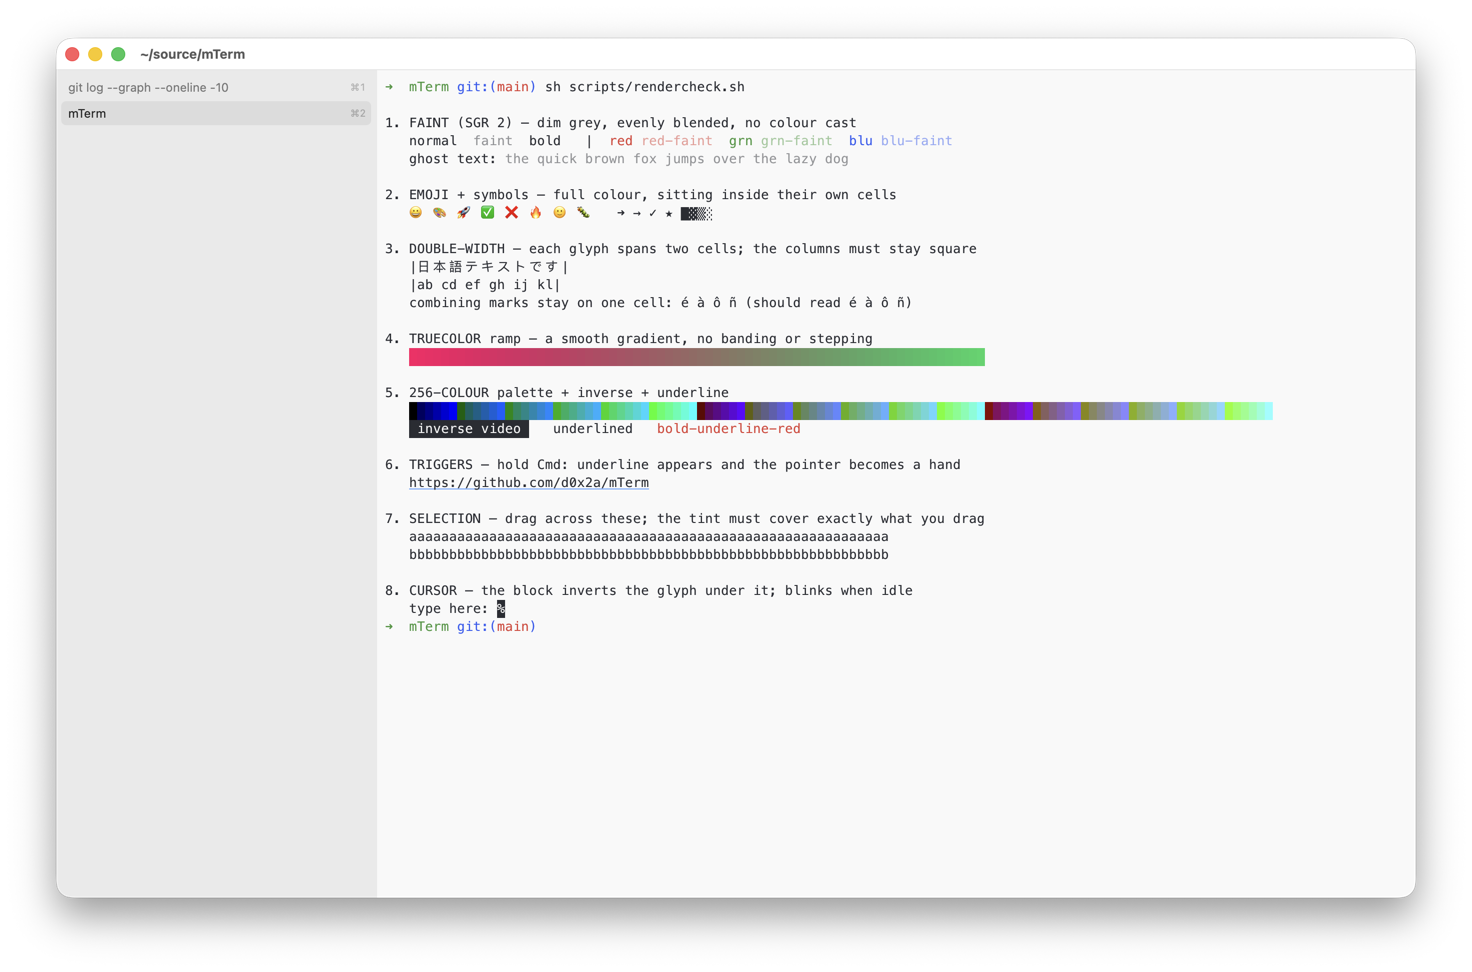
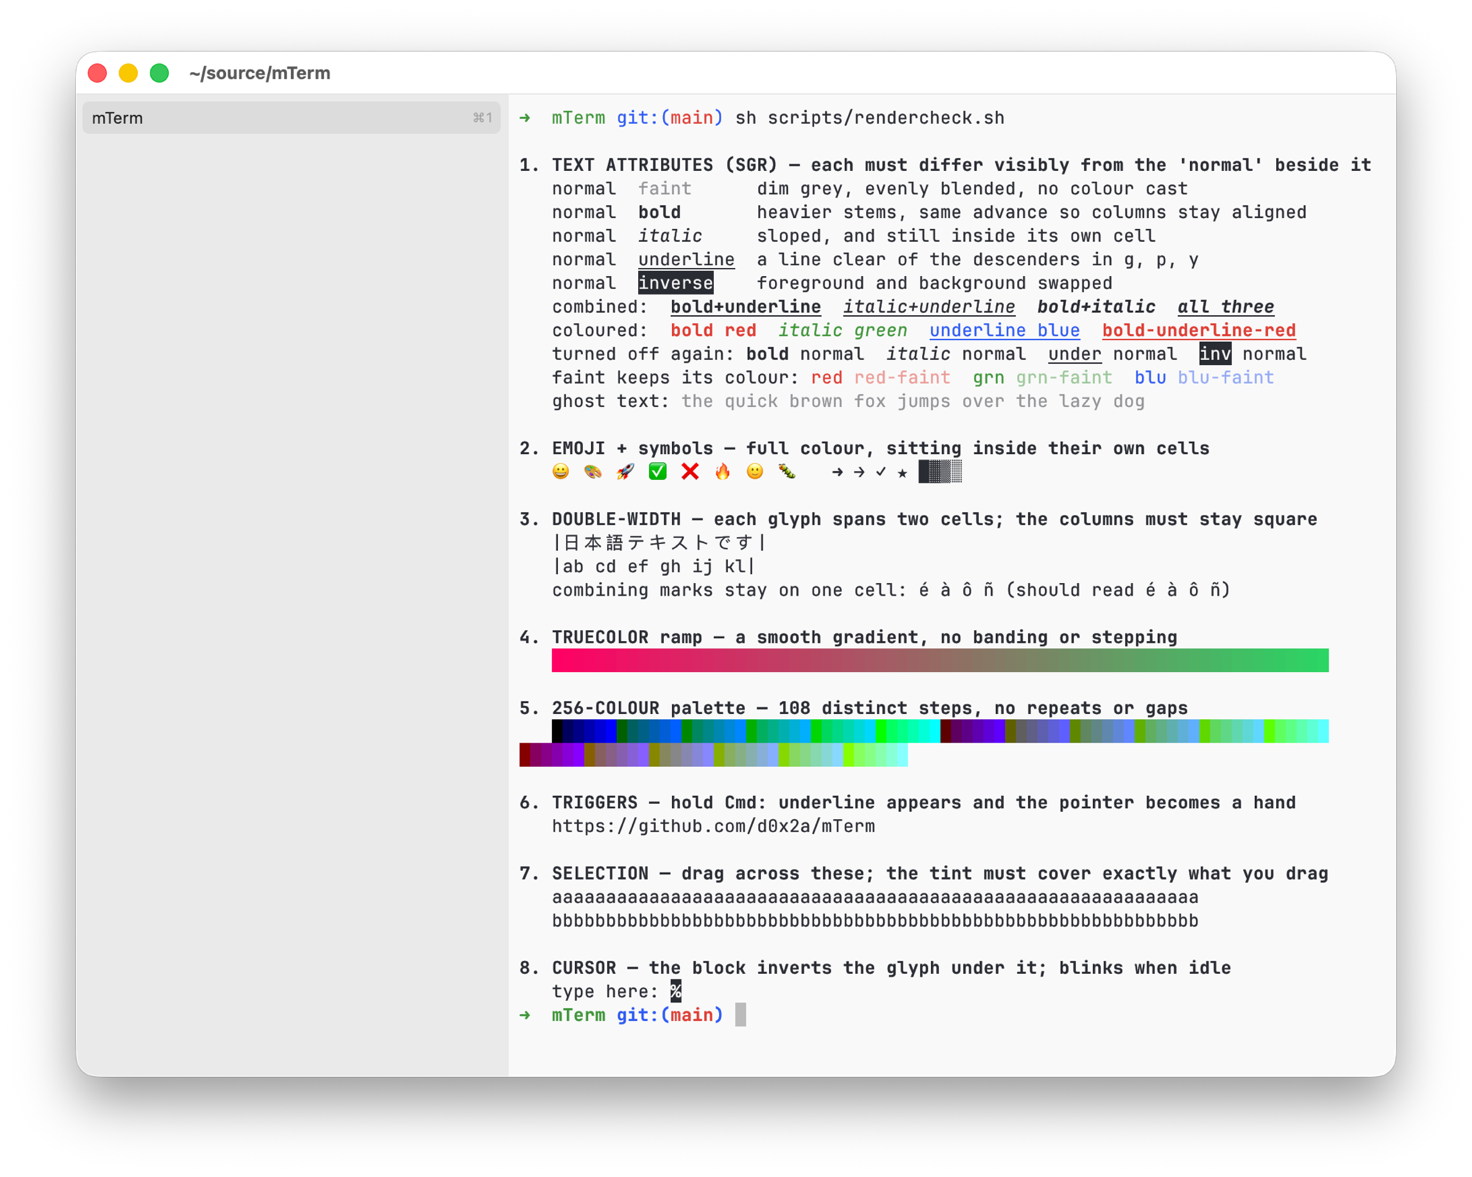
Reshoot the renderer screenshot, and describe what it shows
The image predated both the rendercheck rewrite and the attribute work, so
it showed an older layout in which bold and underline rendered as plain
text — and the caption claimed it demonstrated underline, which it did not.
The only underline in it was the trigger one on a URL, drawn by a different
path entirely.

The new shot is the current script: section 1 with bold, italic, underline,
faint and inverse each against a "normal" reference, the combinations, and
the codes that turn them off again.

Taken at stroke weight 1.0 rather than the 0.619 this machine runs at, so
the text is the weight a new install actually draws. Alt text and caption
now list what is on screen, and the feature list says the faces are the
font's own with a shared advance, which is the part that would show up as
drifting columns if it were ever wrong.

Changed region(s): [[0.0312, 0.0309, 0.9688, 0.9568]]

diff --git a/README.md b/README.md
@@ -2,9 +2,9 @@
 
 A native macOS terminal emulator. Opinionated, GPU-accelerated, focused.
 
-![mTerm running scripts/rendercheck.sh: a truecolor gradient, the 256-colour palette, emoji, double-width Japanese text, inverse video and underlines](docs/renderer.png)
+![mTerm running scripts/rendercheck.sh: bold, italic, underlined and inverse text, a truecolor gradient, the 256-colour palette, emoji, and double-width Japanese text](docs/renderer.png)
 
-<sub>`scripts/rendercheck.sh` — truecolor, the 256-colour palette, emoji, double-width CJK, combining marks, inverse and underline, all in one screen.</sub>
+<sub>`scripts/rendercheck.sh` — bold, italic, underline, faint and inverse, truecolor, the 256-colour palette, emoji, double-width CJK and combining marks, all in one screen.</sub>
 
 ![mTerm showing a git log in the repository, with the tab sidebar on the left](docs/session.png)
 
@@ -46,6 +46,7 @@ swift run -c release mTerm
 
 - AppKit-native window with tabbed sidebar (drag to reorder), full-screen, session restore (tabs + CWDs). The sidebar and split divider tint to the active theme.
 - Metal-rendered terminal view with pixel-snapped glyph atlas — crisp text at all sizes, no GPU filtering blur.
+- Bold and italic draw in the font's own faces, not a synthesised slant or smear, and the advance is identical across all four so the columns never drift. Underline, faint and inverse too, including the codes that turn each of them back off.
 - Resizing reflows the buffer: wrapped lines rejoin and re-split at the new width rather than being cut off, and the grid size shows in a readout while you drag.
 - xterm-256color compatibility for vim/neovim/htop/fzf/less/git pagers. 24-bit true color, alt-screen, scroll regions (DECSTBM), DEC line drawing, and synchronized output (DEC 2026) so multi-line redraws land in one frame.
 - Mouse reporting: SGR (1006) and legacy encodings for click, drag, motion, and wheel — hold ⇧ to select instead. Bracketed paste, focus events, and device/cursor-position reports.
